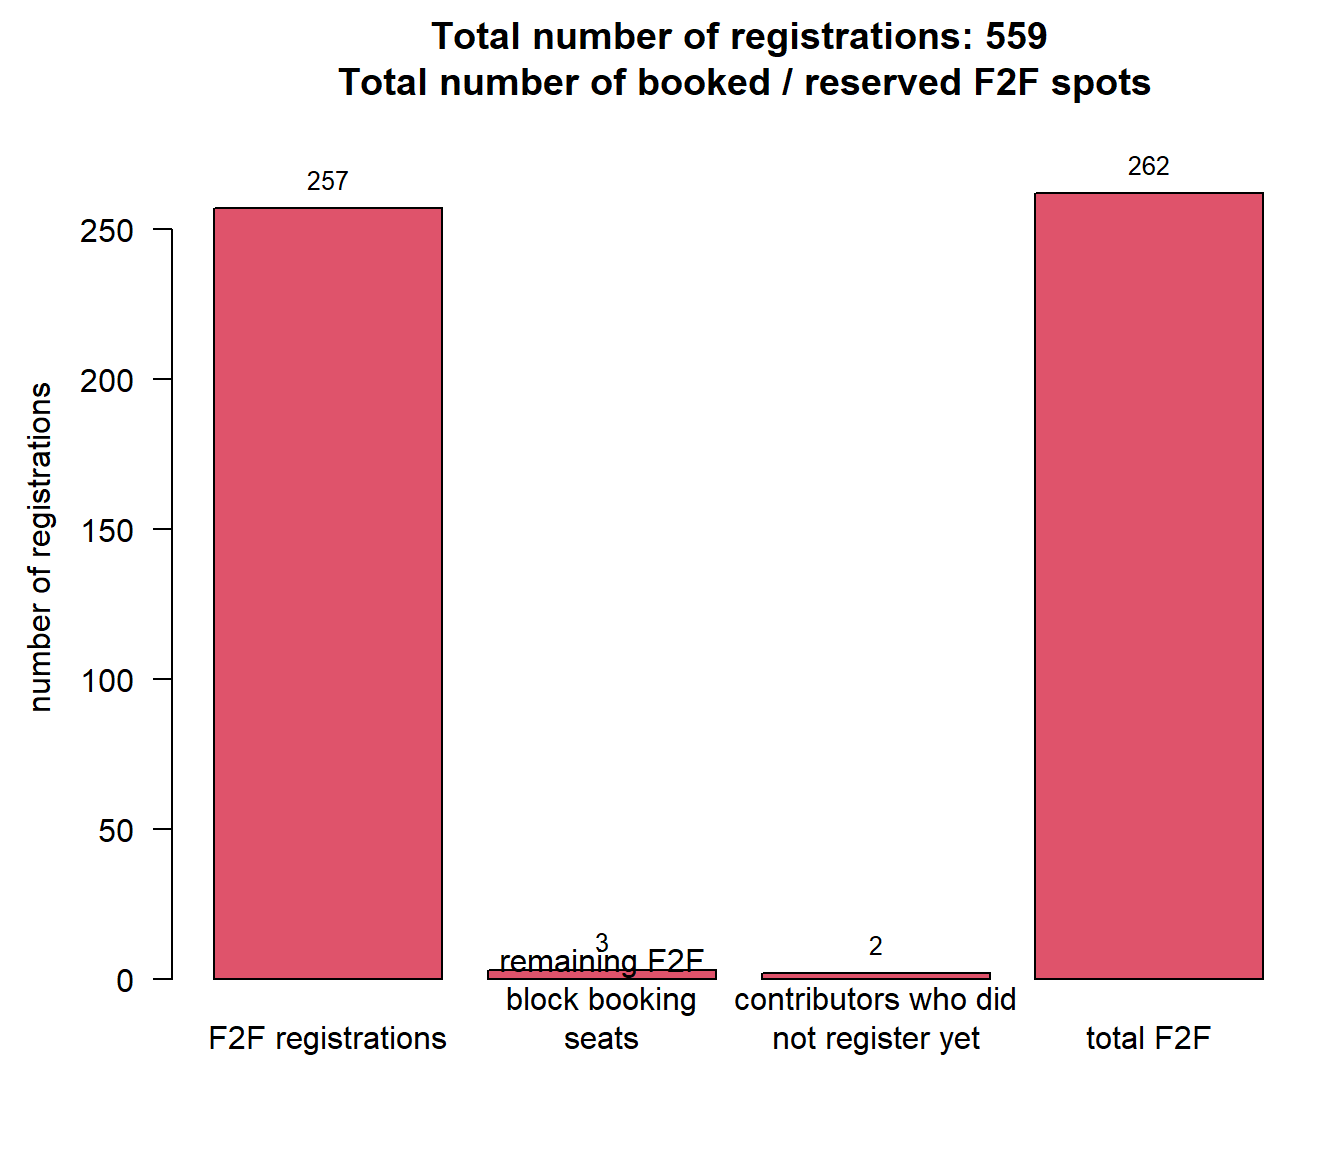
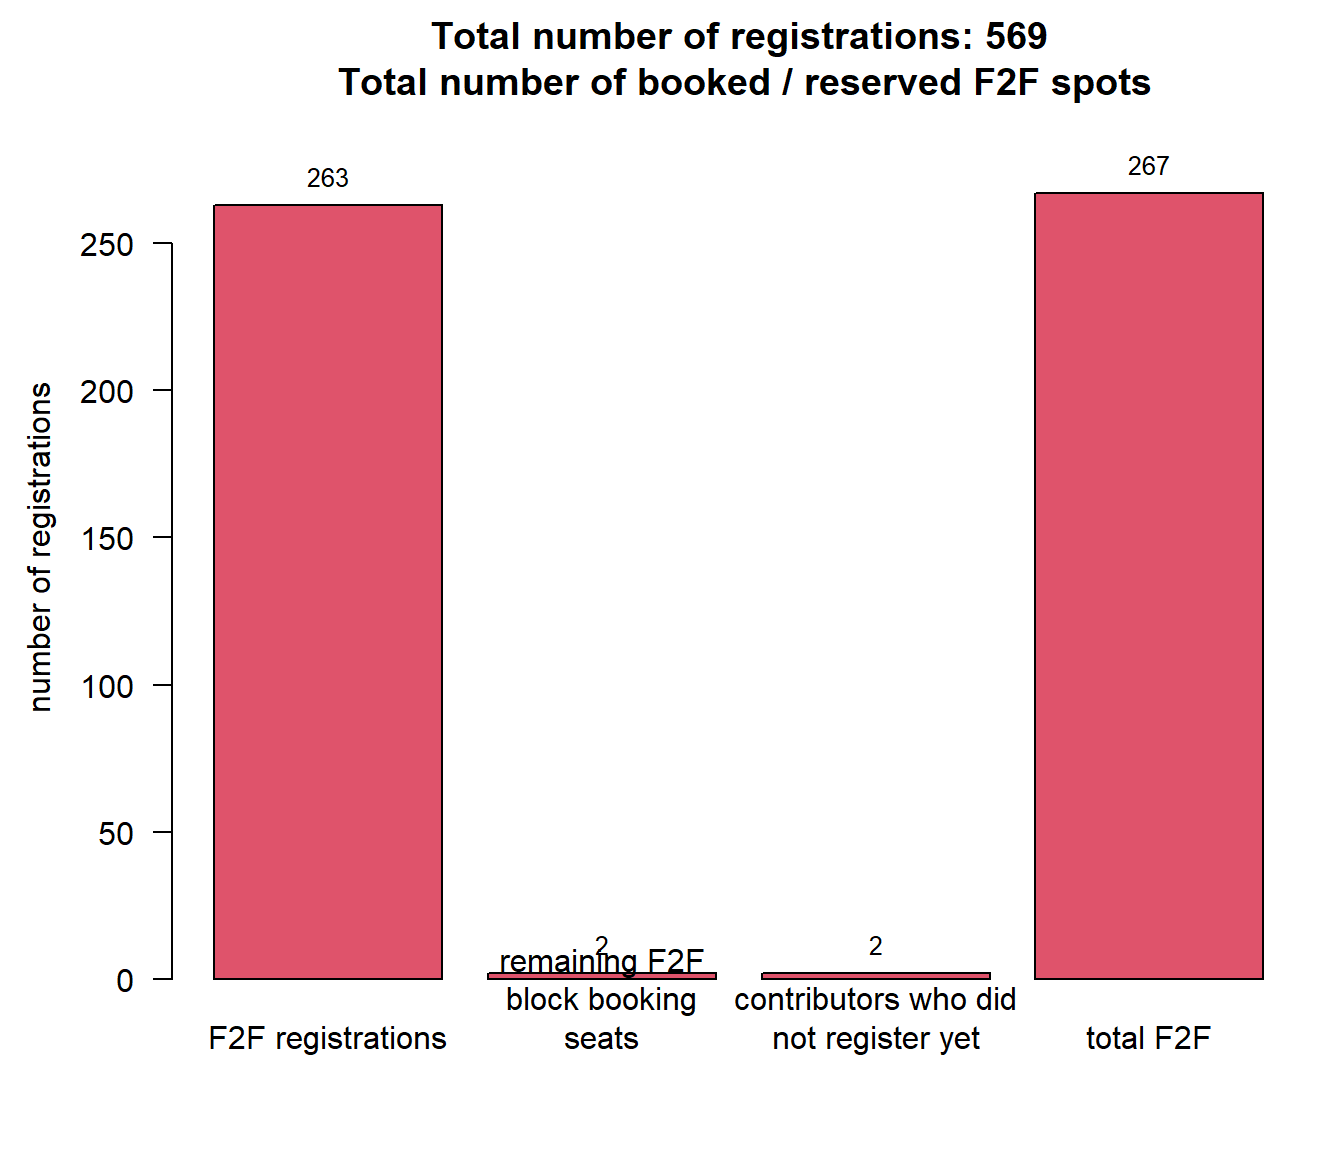
update

diff --git a/docs/data/2026/analysis2026.html b/docs/data/2026/analysis2026.html
@@ -252,7 +252,7 @@ ul.task-list li input[type="checkbox"] {
 
 <section id="data-status" class="level1">
 <h1>Data status</h1>
-<p>Data as of 2026-07-20 at 16:55:23.</p>
+<p>Data as of 2026-07-22 at 16:16:09.</p>
 </section>
 <section id="registrations" class="level1 tabset tabset-fade tabset-pills">
 <h1 class="tabset tabset-fade tabset-pills">Registrations</h1>
@@ -413,9 +413,9 @@ ul.task-list li input[type="checkbox"] {
 <thead>
 <tr class="header">
 <th style="text-align: left;"></th>
-<th style="text-align: center;">Novartis (N=64)</th>
+<th style="text-align: center;">Novartis (N=66)</th>
 <th style="text-align: center;">Roche (N=50)</th>
-<th style="text-align: center;">Total (N=114)</th>
+<th style="text-align: center;">Total (N=116)</th>
 </tr>
 </thead>
 <tbody>
@@ -427,15 +427,15 @@ ul.task-list li input[type="checkbox"] {
 </tr>
 <tr class="even">
 <td style="text-align: left;">&nbsp;&nbsp;&nbsp;Face-to-face (300 Euro)</td>
-<td style="text-align: center;">32 (50.0%)</td>
+<td style="text-align: center;">33 (50.0%)</td>
 <td style="text-align: center;">47 (94.0%)</td>
-<td style="text-align: center;">79 (69.3%)</td>
+<td style="text-align: center;">80 (69.0%)</td>
 </tr>
 <tr class="odd">
 <td style="text-align: left;">&nbsp;&nbsp;&nbsp;Virtual (100 Euro)</td>
-<td style="text-align: center;">32 (50.0%)</td>
+<td style="text-align: center;">33 (50.0%)</td>
 <td style="text-align: center;">3 (6.0%)</td>
-<td style="text-align: center;">35 (30.7%)</td>
+<td style="text-align: center;">36 (31.0%)</td>
 </tr>
 </tbody>
 </table>
@@ -452,10 +452,10 @@ ul.task-list li input[type="checkbox"] {
 <thead>
 <tr class="header">
 <th style="text-align: left;"></th>
-<th style="text-align: center;">Bayer (N=68)</th>
+<th style="text-align: center;">Bayer (N=69)</th>
 <th style="text-align: center;">Merck KGaA (N=89)</th>
 <th style="text-align: center;">Novo Nordisk (N=85)</th>
-<th style="text-align: center;">Total (N=242)</th>
+<th style="text-align: center;">Total (N=243)</th>
 </tr>
 </thead>
 <tbody>
@@ -468,17 +468,17 @@ ul.task-list li input[type="checkbox"] {
 </tr>
 <tr class="even">
 <td style="text-align: left;">&nbsp;&nbsp;&nbsp;Face-to-face (300 Euro)</td>
-<td style="text-align: center;">5 (7.4%)</td>
+<td style="text-align: center;">5 (7.2%)</td>
 <td style="text-align: center;">3 (3.4%)</td>
 <td style="text-align: center;">5 (5.9%)</td>
-<td style="text-align: center;">13 (5.4%)</td>
+<td style="text-align: center;">13 (5.3%)</td>
 </tr>
 <tr class="odd">
 <td style="text-align: left;">&nbsp;&nbsp;&nbsp;Virtual (100 Euro)</td>
-<td style="text-align: center;">63 (92.6%)</td>
+<td style="text-align: center;">64 (92.8%)</td>
 <td style="text-align: center;">86 (96.6%)</td>
 <td style="text-align: center;">80 (94.1%)</td>
-<td style="text-align: center;">229 (94.6%)</td>
+<td style="text-align: center;">230 (94.7%)</td>
 </tr>
 </tbody>
 </table>
@@ -555,9 +555,9 @@ ul.task-list li input[type="checkbox"] {
 <thead>
 <tr class="header">
 <th style="text-align: left;"></th>
-<th style="text-align: center;">Novartis (N=32)</th>
+<th style="text-align: center;">Novartis (N=33)</th>
 <th style="text-align: center;">Roche (N=47)</th>
-<th style="text-align: center;">Total (N=79)</th>
+<th style="text-align: center;">Total (N=80)</th>
 </tr>
 </thead>
 <tbody>
@@ -569,15 +569,15 @@ ul.task-list li input[type="checkbox"] {
 </tr>
 <tr class="even">
 <td style="text-align: left;">&nbsp;&nbsp;&nbsp;show</td>
-<td style="text-align: center;">32 (100.0%)</td>
+<td style="text-align: center;">33 (100.0%)</td>
 <td style="text-align: center;">46 (97.9%)</td>
-<td style="text-align: center;">78 (98.7%)</td>
+<td style="text-align: center;">79 (98.8%)</td>
 </tr>
 <tr class="odd">
 <td style="text-align: left;">&nbsp;&nbsp;&nbsp;no show</td>
 <td style="text-align: center;">0 (0.0%)</td>
 <td style="text-align: center;">1 (2.1%)</td>
-<td style="text-align: center;">1 (1.3%)</td>
+<td style="text-align: center;">1 (1.2%)</td>
 </tr>
 </tbody>
 </table>

diff --git a/docs/feedback.html b/docs/feedback.html
@@ -7,7 +7,7 @@
 <meta name="viewport" content="width=device-width, initial-scale=1.0, user-scalable=yes">
 
 <meta name="author" content="Kaspar Rufibach">
-<meta name="dcterms.date" content="2026-07-20">
+<meta name="dcterms.date" content="2026-07-22">
 
 <title>EFSPI regulatory statistics workshop: feedback from previous years – EFSPI regulatory statistics workshop</title>
 <style>
@@ -233,7 +233,7 @@ ul.task-list li input[type="checkbox"] {
     <div>
     <div class="quarto-title-meta-heading">Published</div>
     <div class="quarto-title-meta-contents">
-      <p class="date">July 20, 2026</p>
+      <p class="date">July 22, 2026</p>
     </div>
   </div>
   

diff --git a/docs/past_scicom.html b/docs/past_scicom.html
@@ -6,7 +6,7 @@
 
 <meta name="viewport" content="width=device-width, initial-scale=1.0, user-scalable=yes">
 
-<meta name="dcterms.date" content="2026-07-20">
+<meta name="dcterms.date" content="2026-07-22">
 
 <title>Past workshops: analysis of registrations and feedback (for restricted audience only) – EFSPI regulatory statistics workshop</title>
 <style>
@@ -225,7 +225,7 @@ ul.task-list li input[type="checkbox"] {
     <div>
     <div class="quarto-title-meta-heading">Published</div>
     <div class="quarto-title-meta-contents">
-      <p class="date">July 20, 2026</p>
+      <p class="date">July 22, 2026</p>
     </div>
   </div>
   

diff --git a/docs/data/2025/analysis2025.html b/docs/data/2025/analysis2025.html
@@ -252,7 +252,7 @@ ul.task-list li input[type="checkbox"] {
 
 <section id="data-status" class="level1">
 <h1>Data status</h1>
-<p>Data as of 2026-07-20 at 16:55:04.</p>
+<p>Data as of 2026-07-22 at 16:15:39.</p>
 </section>
 <section id="registrations" class="level1 tabset tabset-fade tabset-pills">
 <h1 class="tabset tabset-fade tabset-pills">Registrations</h1>

diff --git a/docs/index.html b/docs/index.html
@@ -7,7 +7,7 @@
 <meta name="viewport" content="width=device-width, initial-scale=1.0, user-scalable=yes">
 
 
-<title>quarto-inpute6cb1f9e4260f168 – EFSPI regulatory statistics workshop</title>
+<title>quarto-input90765dc5ddb3c72a – EFSPI regulatory statistics workshop</title>
 <style>
 code{white-space: pre-wrap;}
 span.smallcaps{font-variant: small-caps;}

diff --git a/docs/stats.html b/docs/stats.html
@@ -231,7 +231,7 @@ ul.task-list li input[type="checkbox"] {
 </header>
 
 
-<p>Status of 2026 registrations as per 2026-07-20 16:56:31.144822.</p>
+<p>Status of 2026 registrations as per 2026-07-22 16:17:44.12364.</p>
 <div class="cell" data-layout-align="center">
 <div class="cell-output-display">
 <div class="quarto-figure quarto-figure-center">

diff --git a/docs/data/2024/analysis2024.html b/docs/data/2024/analysis2024.html
@@ -260,7 +260,7 @@ ul.task-list li input[type="checkbox"] {
 
 <section id="data-status" class="level1">
 <h1>Data status</h1>
-<p>Data as of 2026-07-20 at 16:54:47.</p>
+<p>Data as of 2026-07-22 at 16:15:12.</p>
 </section>
 <section id="registrations-by-type-of-institution" class="level1">
 <h1>Registrations by type of institution</h1>
